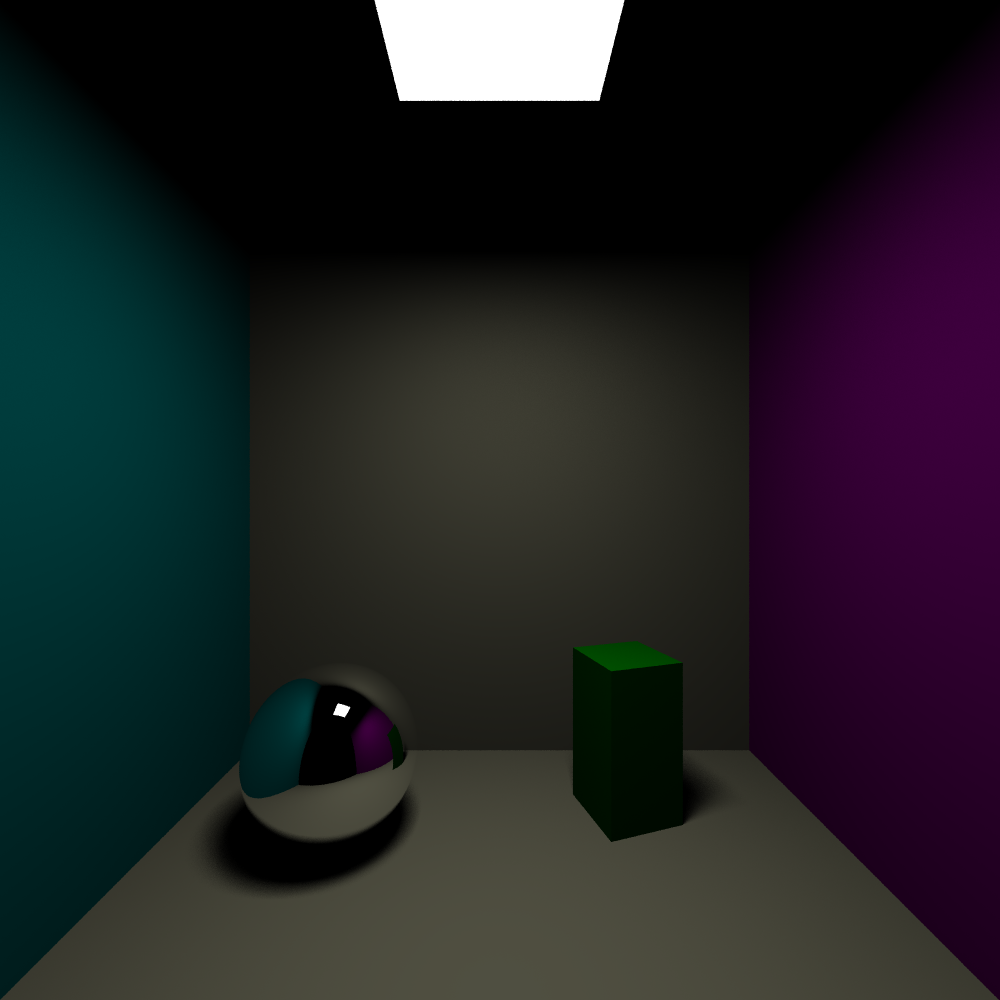
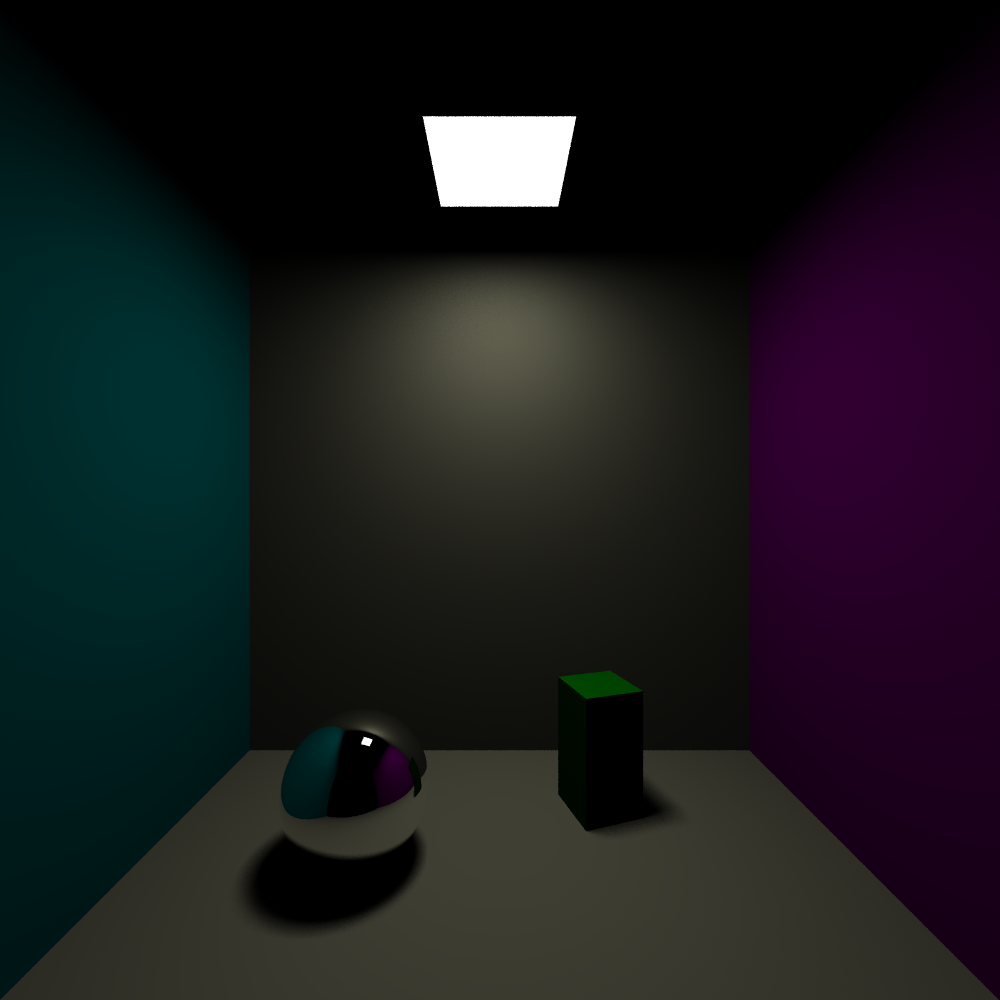
fixes to box scene

diff --git a/src/tracer/scene.rs b/src/tracer/scene.rs
@@ -84,7 +84,7 @@ impl Scene {
 
         pub fn box_scene(focal_length: f64) -> Self {
             /* y ground */
-            let yg = -0.8*focal_length;
+            let yg = -focal_length;
             let col = DVec3::new(255.0, 253.0, 208.0) / 255.9;
             let light_z = yg;
             let light_xy = 0.2*focal_length;
@@ -96,9 +96,9 @@ impl Scene {
                      * before roof in this vector and everything should be ok */
                     Rectangle::new(
                         DMat3::from_cols(
-                            DVec3::new(-light_xy, -yg, light_z - light_xy),
-                            DVec3::new(-light_xy, -yg, light_z + light_xy),
-                            DVec3::new(light_xy, -yg, light_z + light_xy),
+                            DVec3::new(-light_xy, -yg, 1.5*light_z + light_xy),
+                            DVec3::new(-light_xy, -yg, 1.5*light_z - light_xy),
+                            DVec3::new(light_xy, -yg, 1.5*light_z - light_xy),
                         ),
                         Material::Light(Texture::Solid(DVec3::ONE)),
                     ),
@@ -109,7 +109,7 @@ impl Scene {
                     ),
                     Cuboid::new(
                         DAffine3::from_translation(
-                            DVec3::new(light_xy, yg, 1.7*light_z))// + 0.7*yg))
+                            DVec3::new(light_xy, yg, 1.7*light_z))
                             * DAffine3::from_scale(
                                 DVec3::new(light_xy, 2.0*light_xy, light_xy))
                             * DAffine3::from_rotation_y(PI / 10.0),

diff --git a/src/main.rs b/src/main.rs
@@ -89,6 +89,7 @@ fn main() {
             .build_global().unwrap(),
         None => (),
     };
+
     let fl = 10.0;
     let scene = if cli_args.boxx {
         Scene::box_scene(fl)
